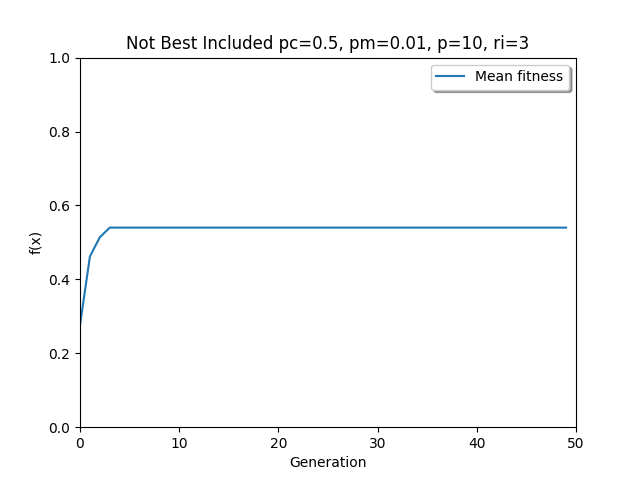
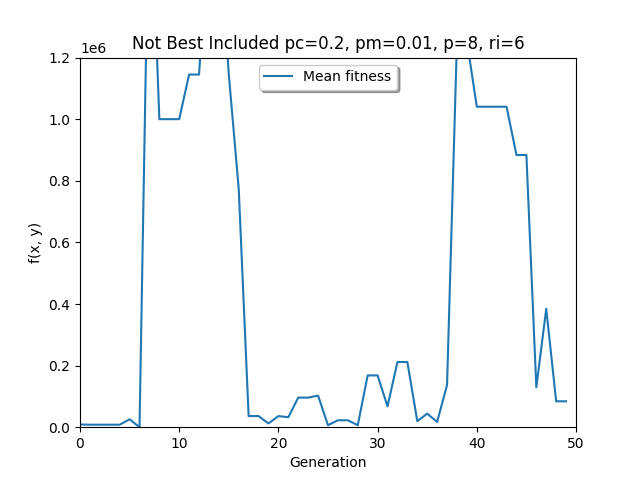
Algorithm finished

diff --git a/main3.py b/main3.py
@@ -16,9 +16,11 @@ print(f"first fitness population vector: {f} \n")
 bIndP = ['01111', '01111']
 
 #counter
-t = 1
+t = 0
+ni = 50
+metric = []
 
-while t < 50:
+while t < ni:
     #getting the best individual of the generation
     bInd = ga.best(p, f)
     evalBInd = ga.evalFunc(bInd[0], bInd[1])
@@ -32,7 +34,7 @@ while t < 50:
     #print(f"linear ranking: {lr} \n")
 
     #Tournament selection, rn: number of random individuals per tournament
-    rn = 2
+    rn = 6
     p = ga.tournSelec(p, lr, rn)
     #print(f"tournament selection: {p} \n")
 
@@ -41,24 +43,41 @@ while t < 50:
     #print(f"roulete wheel selection: {p} \n")
 
     #crossover, probability crossover must be betwen 0.6 < pc < 1.0
-    pc = 0.6
+    pc = 0.2
     p = ga.crossover(p, pc)
     #print(f"crossover: {p} \n")
 
     #mutation
-    pm =0.02
+    pm =0.01
     p = ga.mutate(p, pm)
     #print(f"mutation: {p} \n")
 
     #adding the best of the generation to the next population
-    #p[0] = bIndP
+    p[0] = bIndP
     #evalBInd = ga.evalFunc(bInd[0], bInd[1])
     #print(evalBInd)
 
     #append last fitness value to p index 1
     f = ga.fitness(p)
+
+    metric.append(sum(f)/len(f))
+
     print(f"last iter population: {f} \n")
+    print(p)
 
     t+=1
 
-print(t)
+xVal = [val for val in range(ni)]
+yVal = metric
+
+fig, ax = plt.subplots()
+ax.plot(xVal, yVal, label="Mean fitness")
+#defining the axis space
+ax.axis([0, ni, 0, 1200000])
+
+ax.legend(shadow=True, fancybox=True)
+plt.title(f"Best Included pc={pc}, pm={pm}, p={n}, ri={rn}")
+plt.xlabel("Generation")
+plt.ylabel("f(x, y)")
+
+plt.show()

diff --git a/GeneticAlgorithm3.py b/GeneticAlgorithm3.py
@@ -44,7 +44,7 @@ class GeneticAlgorithm3:
         elif coordinate[0] == '1':
             return int(Encoder3().grayToBin(coordinate[1:]), 2)
         elif coordinate[0] == '0':
-            return (int(Encoder3().grayToBin(coordinate[1:]), 2))*-1
+            return -1*(int(Encoder3().grayToBin(coordinate[1:]), 2))
 
     def randGrayPopulation(self):
 
